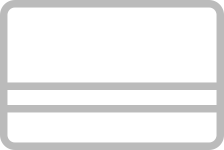
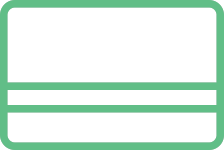
The color of the design elements has been changed.

Changed region(s): [[0.0, 0.0, 1.0, 1.0]]

diff --git a/GraftMobileClient/resources/pos/PaymentScreen.qml b/GraftMobileClient/resources/pos/PaymentScreen.qml
@@ -37,25 +37,39 @@ BaseScreen {
 
             ColumnLayout {
                 id: totalCostLayout
-                spacing: 20
+                spacing: 7
                 Layout.alignment: Qt.AlignLeft
 
-                Text {
-                    text: qsTr("Total: ")
-                    color: "#757575"
-                    font {
-                        family: "Liberation Sans"
-                        pointSize: 12
-                    }
-                }
+                Rectangle {
+                    radius: 7
+                    color: "#fedbb4"
+                    Layout.preferredHeight: 70
+                    Layout.preferredWidth: 115
 
-                Text {
-                    text: qsTr("$ %1").arg(price)
-                    color: "#757575"
-                    font {
-                        bold: true
-                        family: "Liberation Sans"
-                        pointSize: 14
+                    ColumnLayout {
+                        spacing: 10
+                        anchors.horizontalCenter: parent.horizontalCenter
+                        anchors.verticalCenter: parent.verticalCenter
+
+                        Text {
+                            text: qsTr("Total:")
+                            color: "#757575"
+                            font {
+                                bold: true
+                                family: "Liberation Sans"
+                                pointSize: 11
+                            }
+                        }
+
+                        Text {
+                            text: qsTr("$ %1").arg(price)
+                            color: "#757575"
+                            font {
+                                bold: true
+                                family: "Liberation Sans"
+                                pointSize: 13
+                            }
+                        }
                     }
                 }
 
@@ -186,7 +200,7 @@ BaseScreen {
 
         WideRoundButton {
             id: okButton
-            text: qsTr("OK")
+            text: qsTr("Done")
             visible: false
             onClicked: pushScreen.backProductScreen()
         }

diff --git a/GraftMobileClient/resources/pos/PosMenu.qml b/GraftMobileClient/resources/pos/PosMenu.qml
@@ -3,7 +3,7 @@ import QtQuick.Layouts 1.3
 import QtQuick.Controls 2.2
 
 Rectangle {
-    color: "#484848"
+    color: "#283c4a"
 
     property var pushScreen
     property alias balanceInGraft: graftMoney.text
@@ -33,7 +33,7 @@ Rectangle {
 
         Text {
             text: qsTr("STORE")
-            color: "#ffffff"
+            color: "white"
             Layout.alignment: Qt.AlignLeft
             font {
                 bold: true
@@ -55,7 +55,7 @@ Rectangle {
 
             Text {
                 text: qsTr("WALLET")
-                color: "#ffffff"
+                color: "white"
                 Layout.alignment: Qt.AlignLeft
                 font {
                     family: "Liberation Sans"
@@ -77,7 +77,7 @@ Rectangle {
 
             Text {
                 id: graftMoney
-                color: "#ffffff"
+                color: "white"
                 Layout.alignment: Qt.AlignRight
                 font {
                     bold: true
@@ -96,7 +96,7 @@ Rectangle {
 
         Text {
             text: qsTr("SETTINGS")
-            color: "#ffffff"
+            color: "white"
             Layout.alignment: Qt.AlignLeft
             font {
                 family: "Liberation Sans"

diff --git a/GraftMobileClient/resources/Header.qml b/GraftMobileClient/resources/Header.qml
@@ -4,7 +4,7 @@ import QtGraphicalEffects 1.0
 
 Rectangle {
     height: 60
-    color: "#707070"
+    color: "#425665"
 
     signal menuIconClicked()
 
@@ -79,13 +79,13 @@ Rectangle {
                     }
                     width: 14
                     height: width
-                    color: "white"
+                    color: "#f26c4f"
                     visible: false
 
                     Text {
                         id: cartText
                         anchors.centerIn: parent
-                        color: "#707070"
+                        color: "white"
                         text: "0"
                         font {
                             pointSize: 8

diff --git a/GraftMobileClient/resources/pos/ProductScreen.qml b/GraftMobileClient/resources/pos/ProductScreen.qml
@@ -62,7 +62,7 @@ BaseScreen {
             padding: 20
             highlighted: true
             Material.elevation: 0
-            Material.accent: "#d7d7d7"
+            Material.accent: "#4fb67a"
             Layout.preferredHeight: addButton.height * 1.4
             Layout.preferredWidth: height
             Layout.alignment: Qt.AlignRight

diff --git a/GraftMobileClient/resources/pos/AddingScreen.qml b/GraftMobileClient/resources/pos/AddingScreen.qml
@@ -79,7 +79,7 @@ BaseScreen {
                 Layout.preferredWidth: 80
                 highlighted: true
                 Material.elevation: 0
-                Material.accent: "#d7d7d7"
+                Material.accent: "#4fb67a"
                 contentItem: Image {
                     source: "qrc:/imgs/plus_icon.png"
                 }

diff --git a/GraftMobileClient/resources/pos/ProductDelegate.qml b/GraftMobileClient/resources/pos/ProductDelegate.qml
@@ -6,7 +6,7 @@ import QtQuick.Controls.Material 2.2
 
 Rectangle {
     height: layout.height
-    color: mouseArea.pressed || selectState ? "#f2f2f2" : "transparent"
+    color: mouseArea.pressed || selectState ? "#ecf4ef" : "transparent"
 
     property real productPrice
     property bool selectState: false

diff --git a/GraftMobileClient/resources/components/WideRoundButton.qml b/GraftMobileClient/resources/components/WideRoundButton.qml
@@ -9,7 +9,7 @@ RoundButton {
     bottomPadding: 13
     highlighted: true
     Material.elevation: 0
-    Material.accent: "#757575"
+    Material.accent: "#425665"
     Layout.alignment: Qt.AlignCenter
     Layout.fillWidth: true
     Layout.leftMargin: 40
